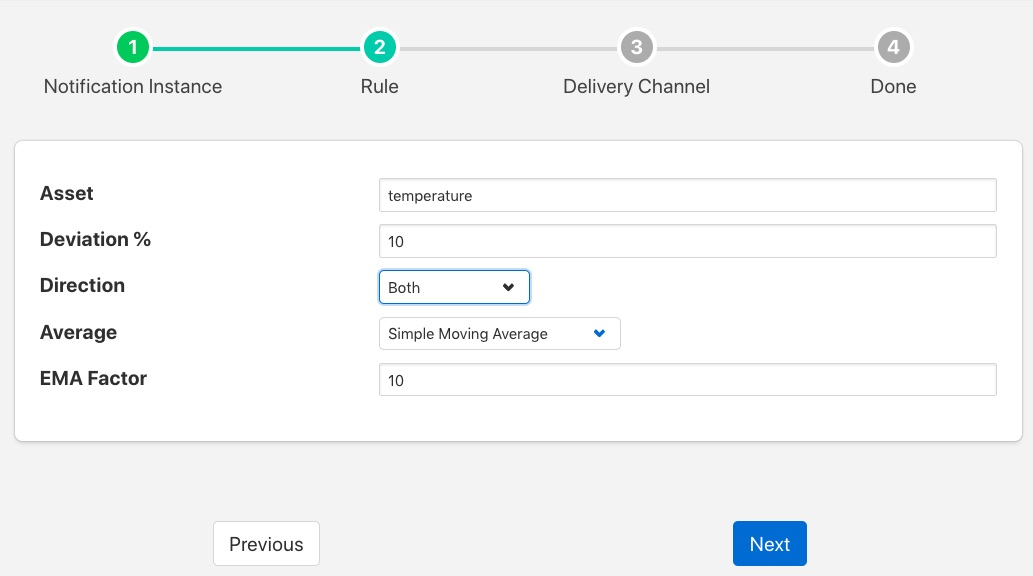
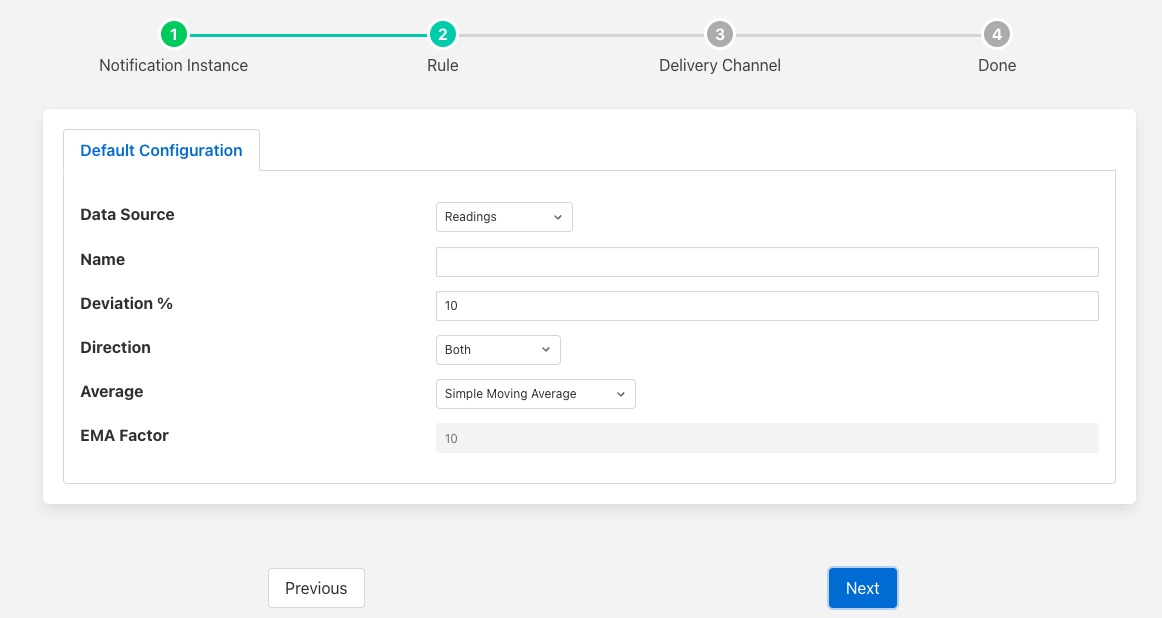
FOGL-7446 add data source to average rule

diff --git a/plugin.cpp b/plugin.cpp
@@ -41,19 +41,27 @@ static const char *default_config = QUOTE({
 			"default":  RULE_NAME,
 			"readonly": "true"
 			},
+	"source" : {
+			"description": "Source of the data to use for the rule",
+			"type": "enumeration",
+			"default": "Readings",
+			"options" : [ "Readings", "Statistics", "Statistics History" ],
+			"displayName" : "Data Source",
+			"order": "1"
+			},
 	"asset": 	{
-			"description" : "Asset to monitor",
+			"description" : "The name of the asset or statistic to monitor",
 			"type" : "string",
 			"default" : "",
-			"displayName" : "Asset",
-			"order": "1"
+			"displayName" : "Name",
+			"order": "2"
 		       	},
 	"deviation":	{
 			"description": "Allowed percentage deviation from average",
 			"type": "integer",
 			"default": "10",
 			"displayName":"Deviation %",
-			"order":"2"
+			"order":"3"
 			},
 	"direction":	{
 			"description": "Trigger on direction of deviation",
@@ -61,7 +69,7 @@ static const char *default_config = QUOTE({
 			"options" : [ "Above Average", "Below Average", "Both" ],
 			"default": "Both",
 			"displayName":"Direction",
-			"order":"3"
+			"order":"4"
 			},
 	"averageType":	{
 			"description": "The type of average to calculate",
@@ -69,14 +77,14 @@ static const char *default_config = QUOTE({
 			"options" : [ "Simple Moving Average", "Exponential Moving Average" ],
 			"default": "Simple Moving Average",
 			"displayName":"Average",
-			"order":"4"
+			"order":"5"
 			},
 	"factor":	{
 			"description": "Exponential moving average factor",
 			"type": "integer",
 			"default": "10",
 			"displayName":"EMA Factor",
-			"order":"5",
+			"order":"6",
 			"validity":"averageType == \"Exponential Moving Average\""
 			}
 	});
@@ -165,7 +173,13 @@ string plugin_triggers(PLUGIN_HANDLE handle)
 		  it != triggers.end();
 		  ++it)
 	{
-		ret += "{ \"asset\"  : \"" + (*it).first + "\"";
+		string source = rule->getSource();
+		if (source.compare("Reading") == 0)
+			ret += "{ \"asset\"  : \"" + (*it).first + "\"";
+		if (source.compare("Statistics") == 0)
+			ret += "{ \"statistic\"  : \"" + (*it).first + "\"";
+		if (source.compare("Statistics History") == 0)
+			ret += "{ \"statisticRate\"  : \"" + (*it).first + "\"";
 		ret += " }";
 		
 		if (std::next(it, 1) != triggers.end())

diff --git a/include/average.h b/include/average.h
@@ -32,6 +32,9 @@ class AverageRule: public BuiltinRule
 		void	unlockConfig() { m_configMutex.unlock(); };
 		bool	evaluate(const std::string& asset, const std::string& datapoint, long value);
 		bool	evaluate(const std::string& asset, const std::string& datapoint, double value);
+		std::string
+			getSource() { return m_source; };
+
 		typedef enum { SMA, EMA } AverageType;
 
 	private:
@@ -67,6 +70,7 @@ class AverageRule: public BuiltinRule
 		};
 		std::map<std::string, Averages *>
 				m_averages;
+		std::string	m_source;
 };
 
 #endif

diff --git a/average.cpp b/average.cpp
@@ -62,6 +62,7 @@ void AverageRule::configure(const ConfigCategory& config)
 	{
 		addTrigger(assetName, NULL);
 	}
+	m_source = config.getValue("source");
 	
 	m_deviation = strtol(config.getValue("deviation").c_str(), NULL, 10);
 	m_direction = config.getValue("direction");

diff --git a/docs/index.rst b/docs/index.rst
@@ -7,7 +7,7 @@
 Moving Average Rule
 ===================
 
-The *fledge-rule-average* plugin is a notifcation rule that is used to detect when a value moves outside of the determined average by more than a specified percentage. The plugin only monitors a single asset, but will monitor all data points within that asset. It will trigger if any of the data points within the asset differ by more than the configured percentage, an average is maintained for each data point separately.
+The *fledge-rule-average* plugin is a notification rule that is used to detect when a value moves outside of the determined average by more than a specified percentage. The plugin only monitors a single asset, but will monitor all data points within that asset. It will trigger if any of the data points within the asset differ by more than the configured percentage, an average is maintained for each data point separately.
 
 During the configuration of a notification use the screen presented to choose the average plugin as the rule.
 
@@ -21,7 +21,9 @@ The next screen you are presented with provides the configuration options for th
 | |average_2| |
 +-------------+
 
-The *Asset* entry field is used to define the single asset that the plugin should monitor.
+The *Data Source* drop down menu allows for the choice of which of the available data streams will be evaluated by the rule. The options are *Readings*, *Statistics* or *Statistics History*.
+
+The *Name* entry field is used to define the name of the statistic or asset that the plugin should monitor.
 
 The *Deviation %* defines how far away from the observed average the current value should be in order to considered as triggering the rule.
 
@@ -43,3 +45,23 @@ Exponential moving averages give more weight to the recent values compared to hi
 
    The Average rule is not applicable to all data, only simple numeric values are considered and those values should not deviate with an average of 0 or close to 0 if good results are required. Data points that deviate wildly are also not suitable for this plugin.
 
+Data Source
+-----------
+
+The rule may be used to test the values of the data that is ingested by
+south services within Fledge or the statistics that Fledge itself creates.
+
+When the rule examines a reading in the Fledge data stream it must be
+given then name of the asset to observe.  The data points within the asset
+should contain numeric data.
+
+When observing a statistic there are two choices that can be made,
+to monitor the raw statistics value, which is a simple count, or to
+examine the statistic history. The value received by the average rule
+for a statistic is the increment that is added to the statistic and not
+the absolute value of the statistics.
+
+The statistic history is the value seen plotted in
+the dashboard graphs and shows the change in the statistic value over
+a defined period. By default the period is 15 seconds, however this is
+configurable.
